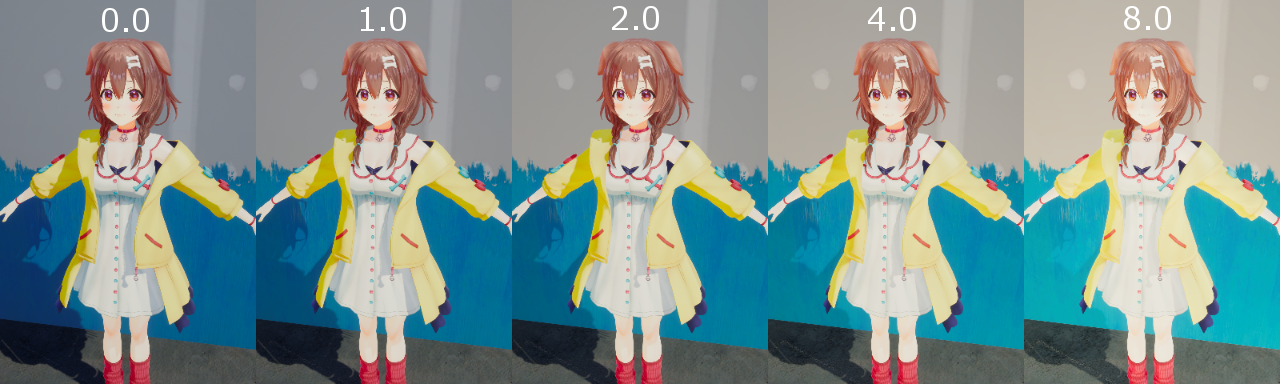
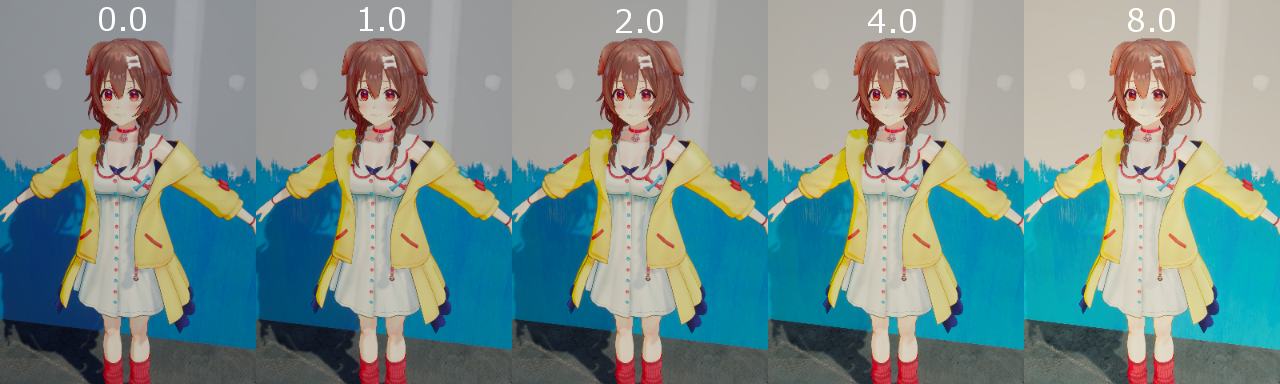
ver 0.6.0

diff --git a/Editor/ShaderGUI/LitShader.cs b/Editor/ShaderGUI/LitShader.cs
@@ -16,7 +16,7 @@ namespace UniToon
             var propToonyFactor = FindProperty("_ToonyFactor", properties);
 
             // version
-            GUILayout.Label("UniToon ver 0.5.0");
+            GUILayout.Label("UniToon ver 0.6.0");
 
             EditorGUILayout.Space();
             EditorGUI.BeginChangeCheck();
@@ -89,10 +89,12 @@ namespace UniToon
             BeginSection("Shading");
             {
                 var factor = EditorGUILayout.Slider("Toony Factor", mat.GetFloat("_ToonyFactor"), 0.001f, 1.0f);
+                var normalCorrect = EditorGUILayout.Slider("Normal Correct", mat.GetFloat("_NormalCorrect"), 0.0f, 1.0f);
                 
                 if (EndSection())
                 {
                     FindProperty("_ToonyFactor", properties).floatValue = factor;
+                    FindProperty("_NormalCorrect", properties).floatValue = normalCorrect;
 
                     MaterialConverter.MaterialChanged(mat, ver);
                 }

diff --git a/README.md b/README.md
@@ -1,6 +1,6 @@
 # UniToon
 
-ver 0.5.0
+ver 0.6.0
 
 A universally usable toon shader. compliant with Unity standard rendering functions, aiming to create a shader that can withstand avatar use across platforms, such as VRM, which is expected to grow in the future.
 

diff --git a/CHANGELOG.md b/CHANGELOG.md
@@ -1,5 +1,9 @@
 # Changelog
 
+## [0.6.0] - 2022-03-27
+### Changes
+- Add normal correct property.
+
 ## [0.5.0] - 2022-03-27
 ### Changes
 - Add post process property.
